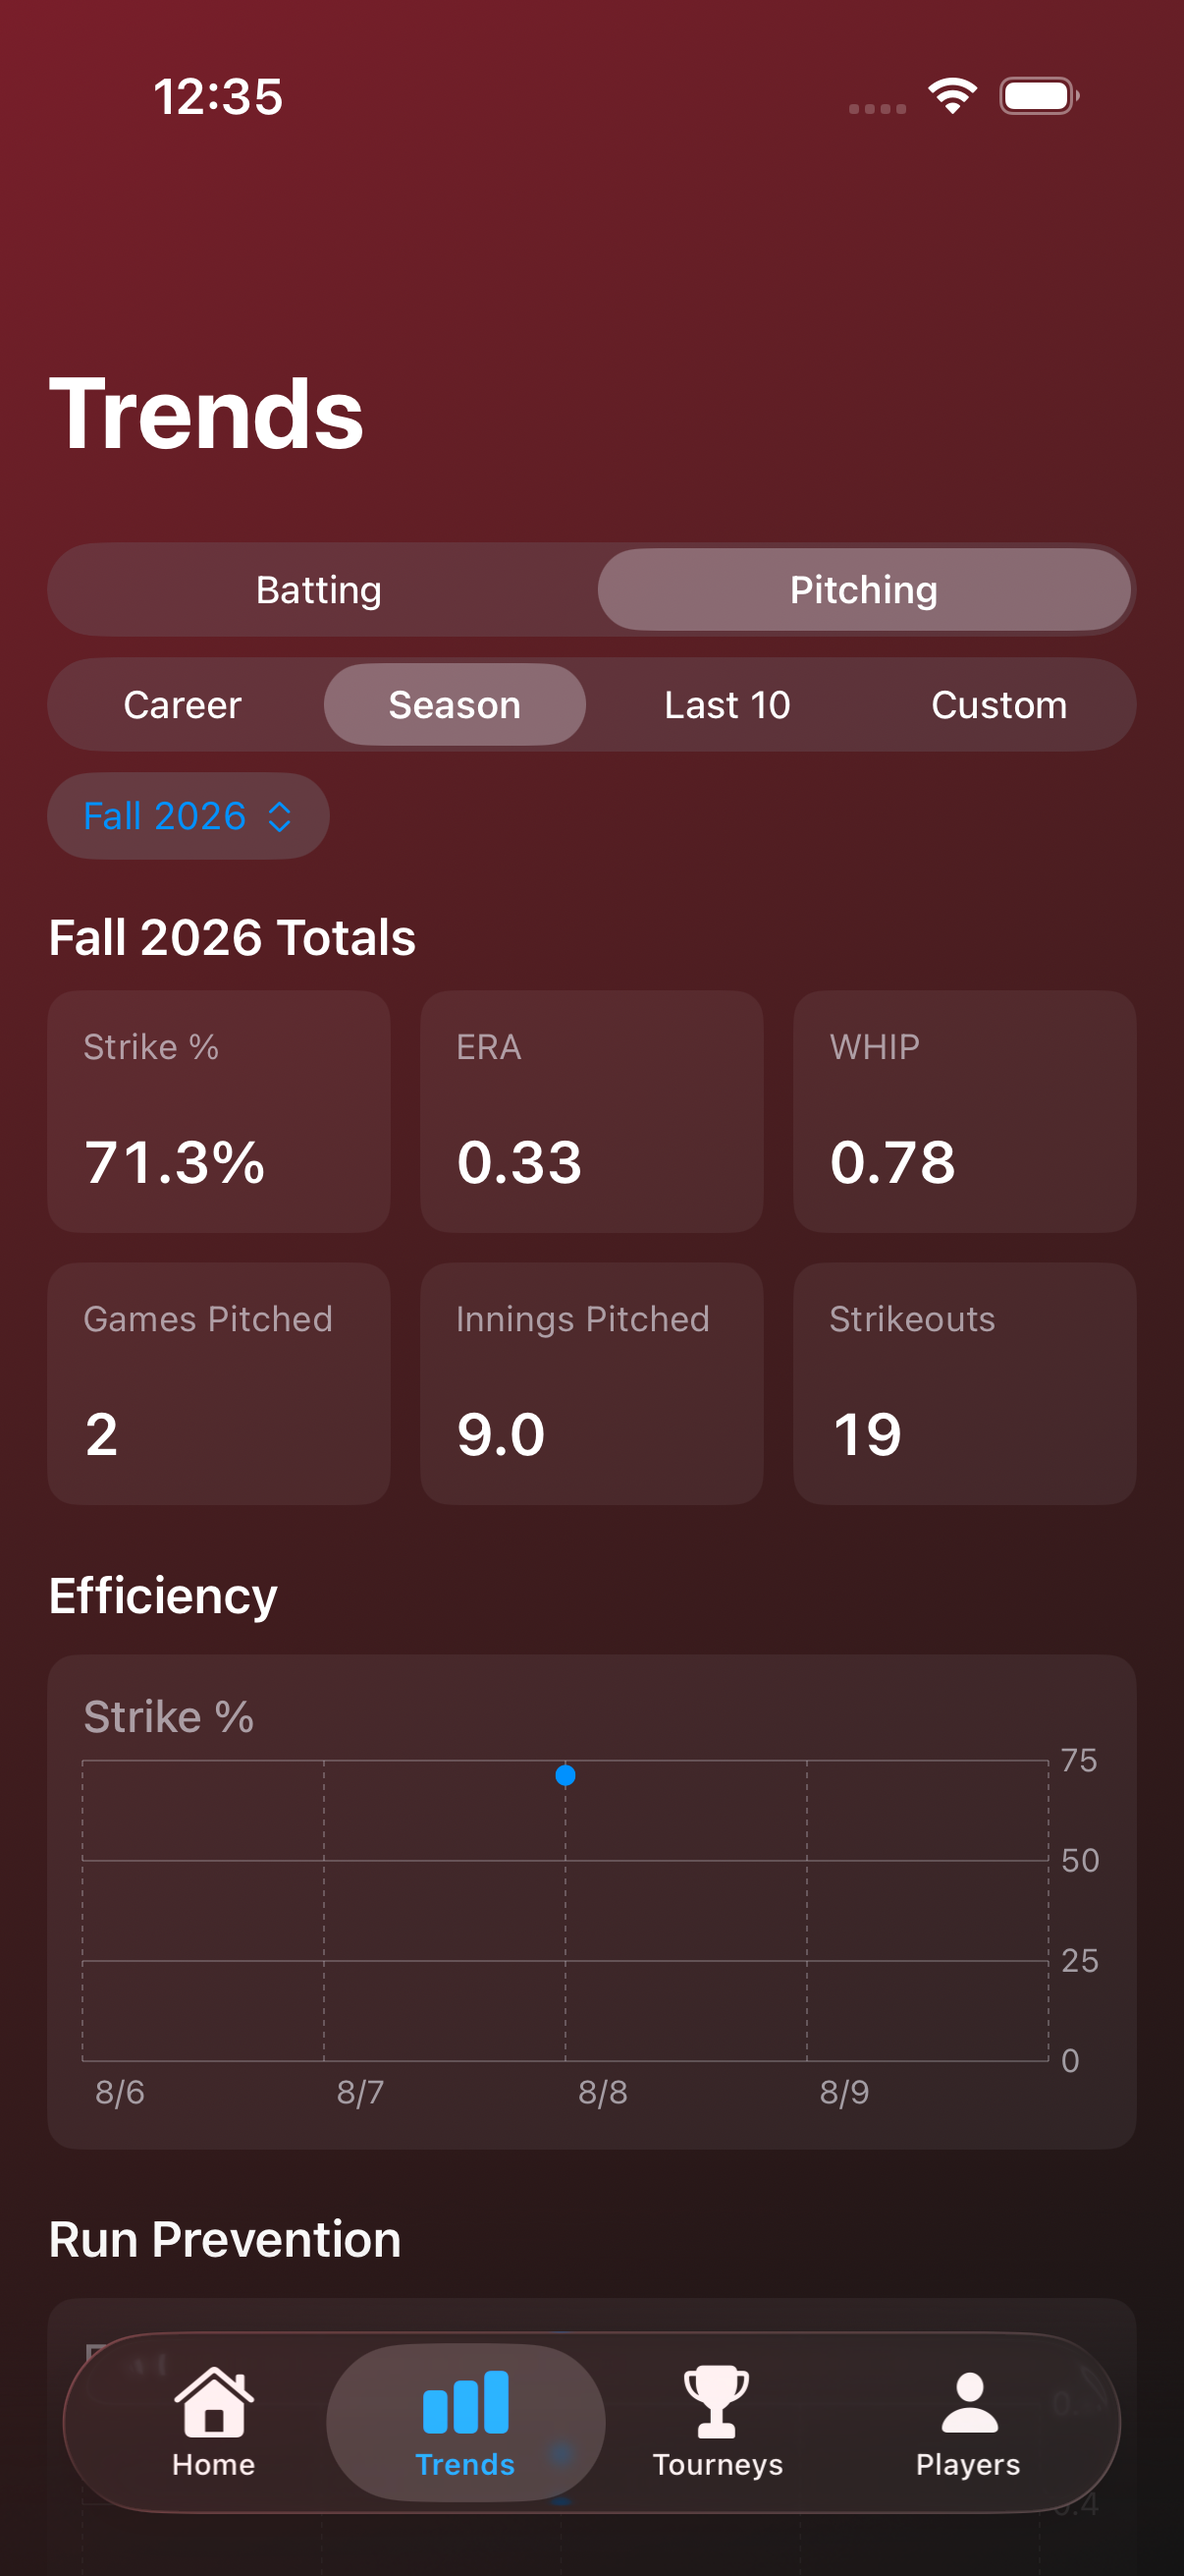
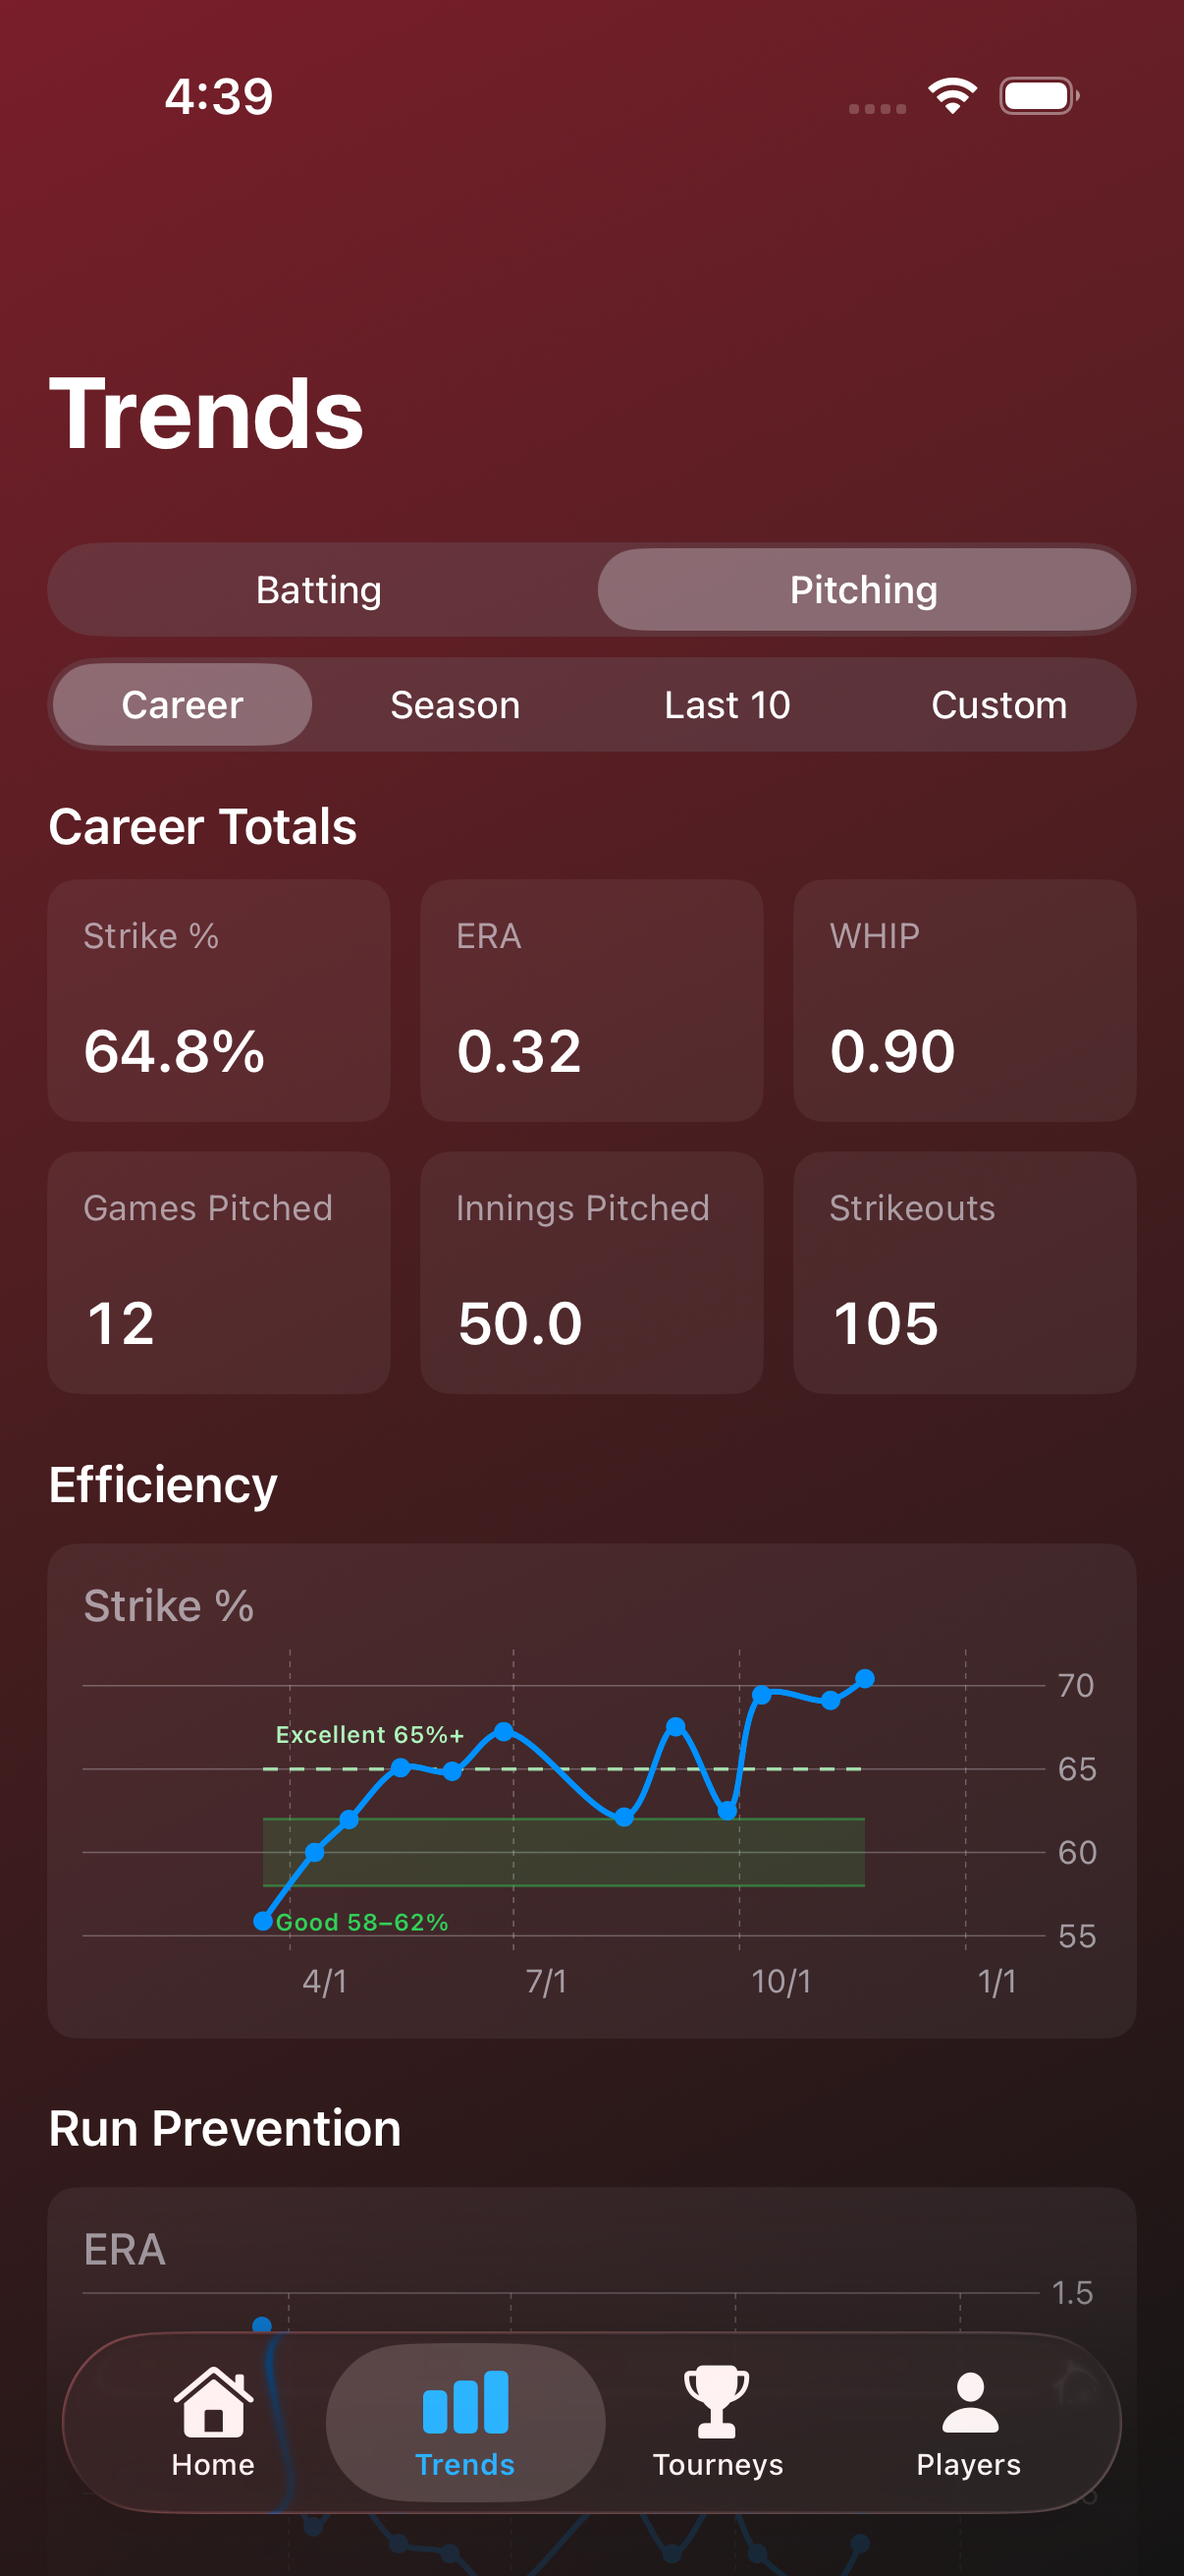
Reframe verification around OCR; real trends and sharing screenshots
Three revisions from Courtney's review: the verification section now
tells only the screenshot-reading story ("Every number is
double-checked"), with the scorekeeping-fault angle removed; the
Trends screenshot now shows an actual twelve-game trend with target
lines instead of a single data point; and the family sharing section
shows genuine sharing states (invited, accepted, shared with you)
rendered by the real label code over fictional athletes.

Claude-Session: https://claude.ai/code/session_015yi8nGYuDHEb997gCMybSF

diff --git a/index.html b/index.html
@@ -94,17 +94,19 @@
 
     <section>
       <div class="copy">
-      <h2>Correct the GameChanger scoring</h2>
-      <p>Screenshot imports are verified against the box score's own team totals. When a
-      number doesn't add up, whether from a misread digit or an error in the original
-      scoring, Full Count identifies the exact discrepancy and lets you correct it or
-      accept the box score as printed. Youth-league scorekeeping is imperfect. Your
-      records don't have to inherit its mistakes.</p>
+      <h2>Every number is double-checked</h2>
+      <p>When Full Count reads a screenshot, it doesn't ask you to trust the reading.
+      Every number is cross-checked against the box score's own team totals, so a
+      misread digit is caught before anything is saved. The review names the
+      discrepancy exactly, hits one short of the printed total, for instance, and
+      points to the rows worth checking so you can fix the cell in place. In the rare
+      case where the box score genuinely prints numbers that don't add up, you can
+      accept it as printed instead.</p>
       </div>
       <figure class="inline-shot">
         <img src="images/14-import-verify.png" width="1206" height="2622"
              alt="The import review screen flagging that the hits column is one short of the box score's own total, naming the rows to check, with buttons to correct the value or accept the box score as printed.">
-        <figcaption class="muted">A discrepancy is named exactly, then corrected or accepted.</figcaption>
+        <figcaption class="muted">A misread digit is caught and named before the game is saved.</figcaption>
       </figure>
     </section>
 
@@ -151,9 +153,9 @@
       and in your own iCloud.</p>
       </div>
       <figure class="inline-shot">
-        <img src="images/05-players.png" width="1206" height="2622"
-             alt="Players tab listing the family's athletes, with the current player checked.">
-        <figcaption class="muted">Every athlete the family tracks, in one place.</figcaption>
+        <img src="images/15-family-sharing.png" width="1206" height="2622"
+             alt="Players tab showing four athletes: one with a pending invitation, one not shared, one shared with this family member, and one shared and accepted in green.">
+        <figcaption class="muted">Sharing status at a glance: invited, accepted, or shared with you.</figcaption>
       </figure>
     </section>
 
